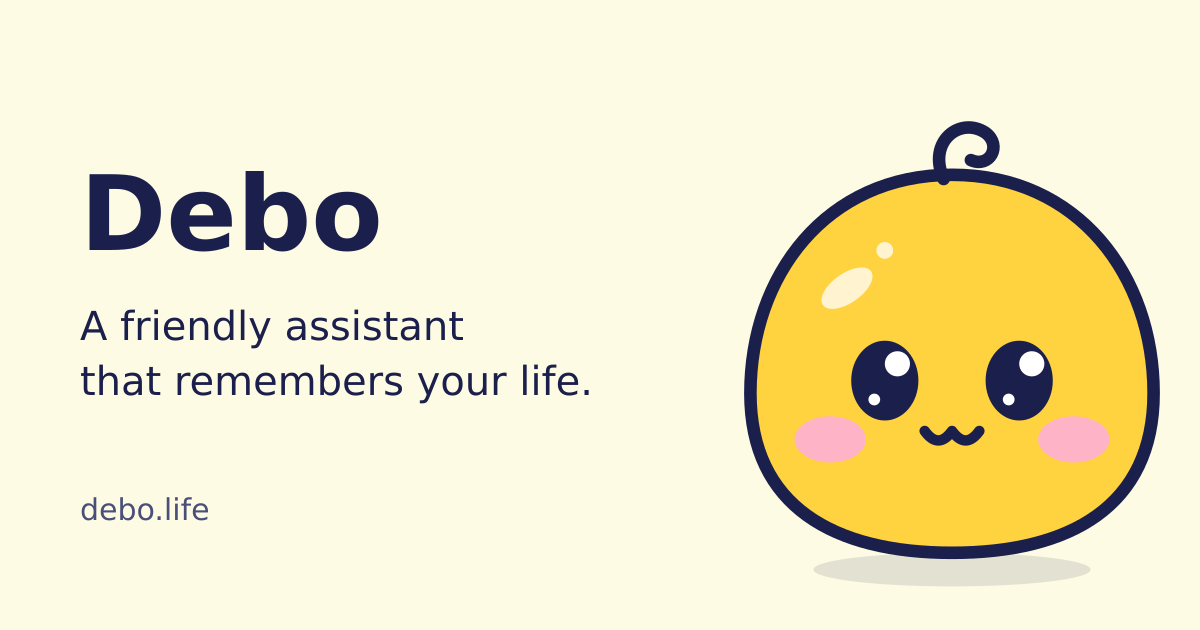
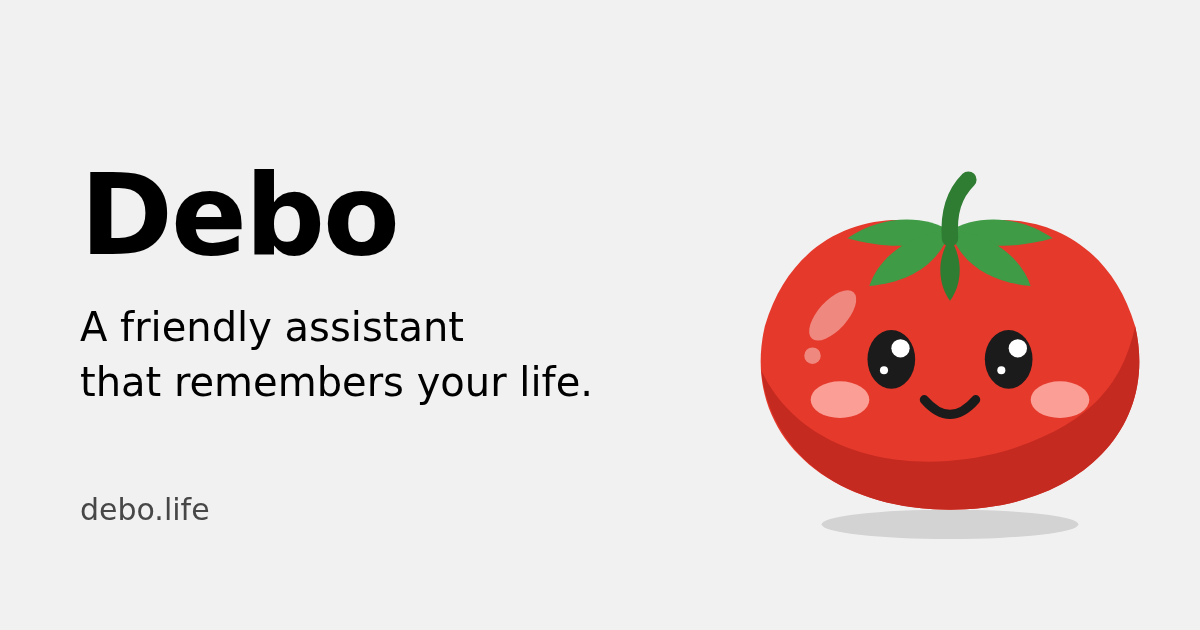
Debo is now a small red tomato
New original drawing: a round, slightly squat red tomato with a soft
highlight and a darker underside, a green leafy top with a short stem, two
friendly dark eyes with small highlights, light blush cheeks and a small
smile. Flat shapes, no outline, readable at 24px. Same 240 by 240 viewBox
as before. Replaced every copy: docs/assets/debo.svg, the README banner, the
landing page logo, favicon and hero picture, the app mascot (rendered to
the same 1024 by 1024 transparent PNG with headless Chromium), the share
image (re-rendered at 1200 by 630 with the Neutral colours and the same
layout) and the favicon file in apps/web (image only, no code change). Alt
text now says: Debo, a small red tomato. The step badges on the landing page
use the neutral badge instead of yellow. DESIGN.md and the assets README
describe the new mascot.

diff --git a/apps/site/src/components/how-it-works.tsx b/apps/site/src/components/how-it-works.tsx
@@ -39,7 +39,7 @@ export function HowItWorks() {
           <Card key={item.step} padding={5} variant="muted">
             <VStack gap={3}>
               <HStack gap={2} vAlign="center">
-                <Badge variant="yellow" label={`Step ${item.step}`} />
+                <Badge variant="neutral" label={`Step ${item.step}`} />
               </HStack>
               <Heading level={3}>{item.title}</Heading>
               <Text as="p" color="secondary">

diff --git a/apps/site/src/components/hero.tsx b/apps/site/src/components/hero.tsx
@@ -26,7 +26,7 @@ export function Hero() {
       <VStack hAlign="center">
         <img
           src="/debo.svg"
-          alt="Debo, a round yellow character with big dark eyes and pink cheeks"
+          alt="Debo, a small red tomato"
           width={240}
           height={240}
         />

diff --git a/DESIGN.md b/DESIGN.md
@@ -12,7 +12,9 @@ Debo should feel like a small, kind friend who keeps your things safe. Two words
 
 ## Debo, the mascot
 
-A soft, round, butter-yellow character shaped like a rice cake, a little wider at the bottom. It has big, dark, shiny eyes set low on the face (two white highlights each), pink cheeks, a small "ω" smile, one curl of hair on top and a flat white shine spot. Drawn in SVG, no image files. The one drawing lives in `apps/web/src/components/debo-art.tsx`; the live mascot, the logo, the favicon and the share image all use it.
+A small, round, slightly squat red tomato with a soft highlight, a green leafy top with a short stem, two friendly dark eyes with small highlights, light blush cheeks and a small smile. It is drawn in flat SVG shapes with no outline. The master drawing is `docs/assets/debo.svg`; the landing page (`apps/site`), the app (`os/apps/mobile`) and the share image use copies of it. The older `apps/web` page still draws the earlier yellow character in `apps/web/src/components/debo-art.tsx` and is being replaced.
+
+The new landing page and the app take their colours from Astryx's default Neutral theme (`@astryxdesign/theme-neutral`), not from the table below, which describes `apps/web`. Debo is the one red thing on those screens.
 
 - Its eyes follow the pointer. This is the one playful moment on a screen. Do not add a second.
 - Debo appears once per screen at most. It is a character, not a pattern.

diff --git a/README.md b/README.md
@@ -1,5 +1,5 @@
 <p align="center">
-  <img src="./docs/assets/debo-banner.svg" alt="Debo, a round yellow character with big dark eyes, next to the words: Debo, a friendly assistant that remembers your life." width="100%">
+  <img src="./docs/assets/debo-banner.svg" alt="Debo, a small red tomato, next to the words: Debo, a friendly assistant that remembers your life." width="100%">
 </p>
 
 <p align="center"><strong>A friendly assistant that remembers your life, and always shows where it learned it.</strong></p>

diff --git a/os/apps/mobile/assets/README.md b/os/apps/mobile/assets/README.md
@@ -1,3 +1,3 @@
 # Debo mascot
 
-`debo.png` is Debo's own mascot, rendered from `docs/assets/debo.svg` in the repository root. It is used by the shared `Mascot` component. OpenFuse's capybara artwork is not used.
+`debo.png` is Debo's own mascot (a small red tomato), 1024 by 1024 pixels with a see-through background, rendered from `docs/assets/debo.svg` in the repository root. It is used by the shared `Mascot` component. OpenFuse's capybara artwork is not used.
